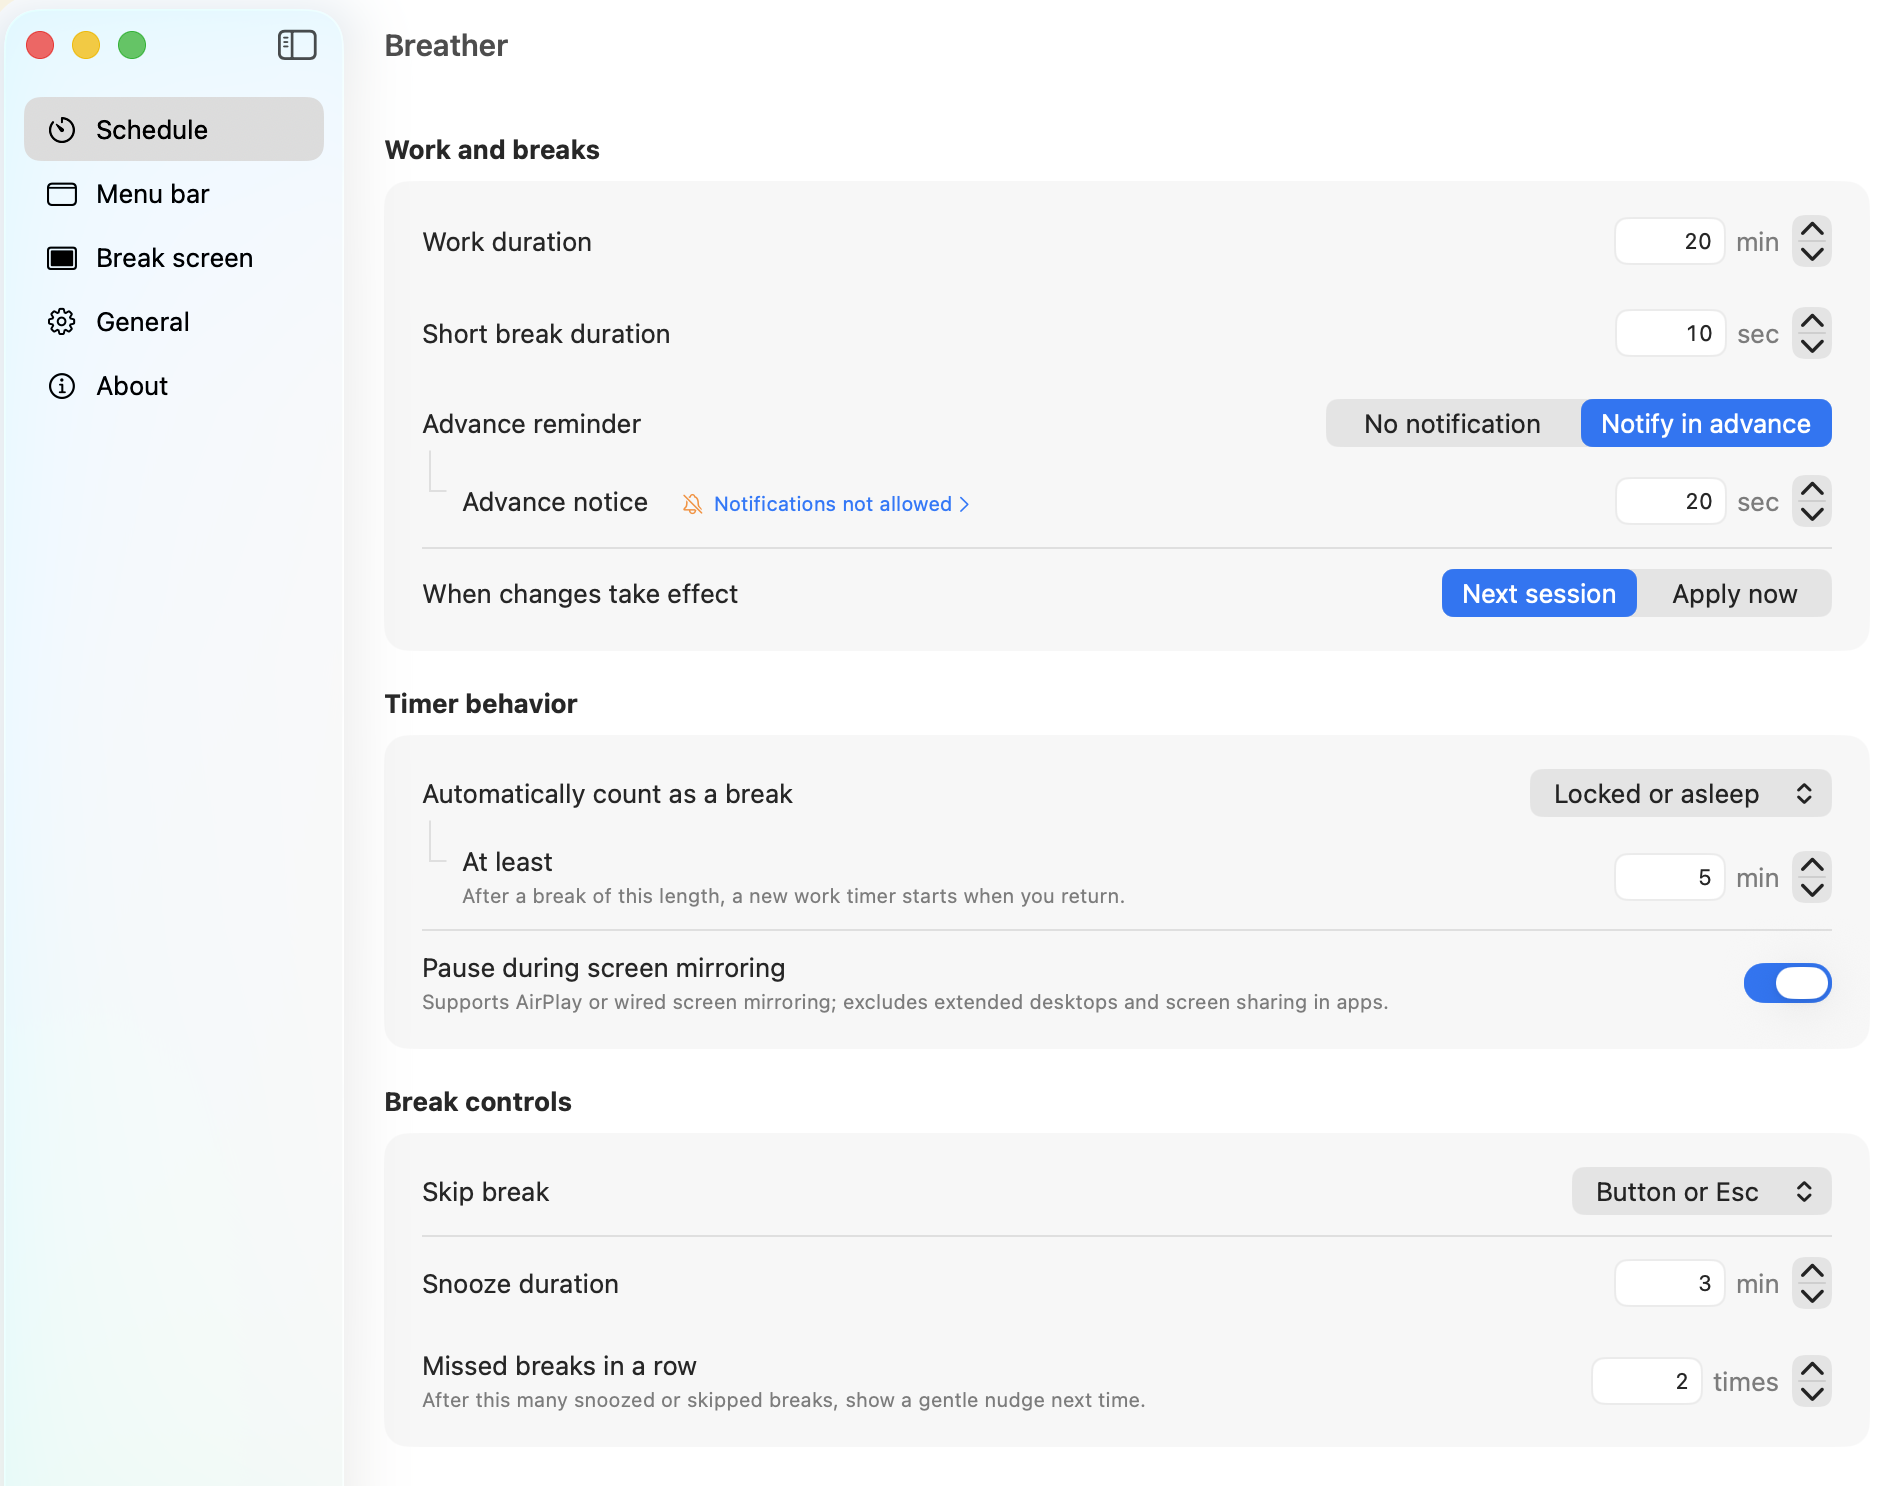
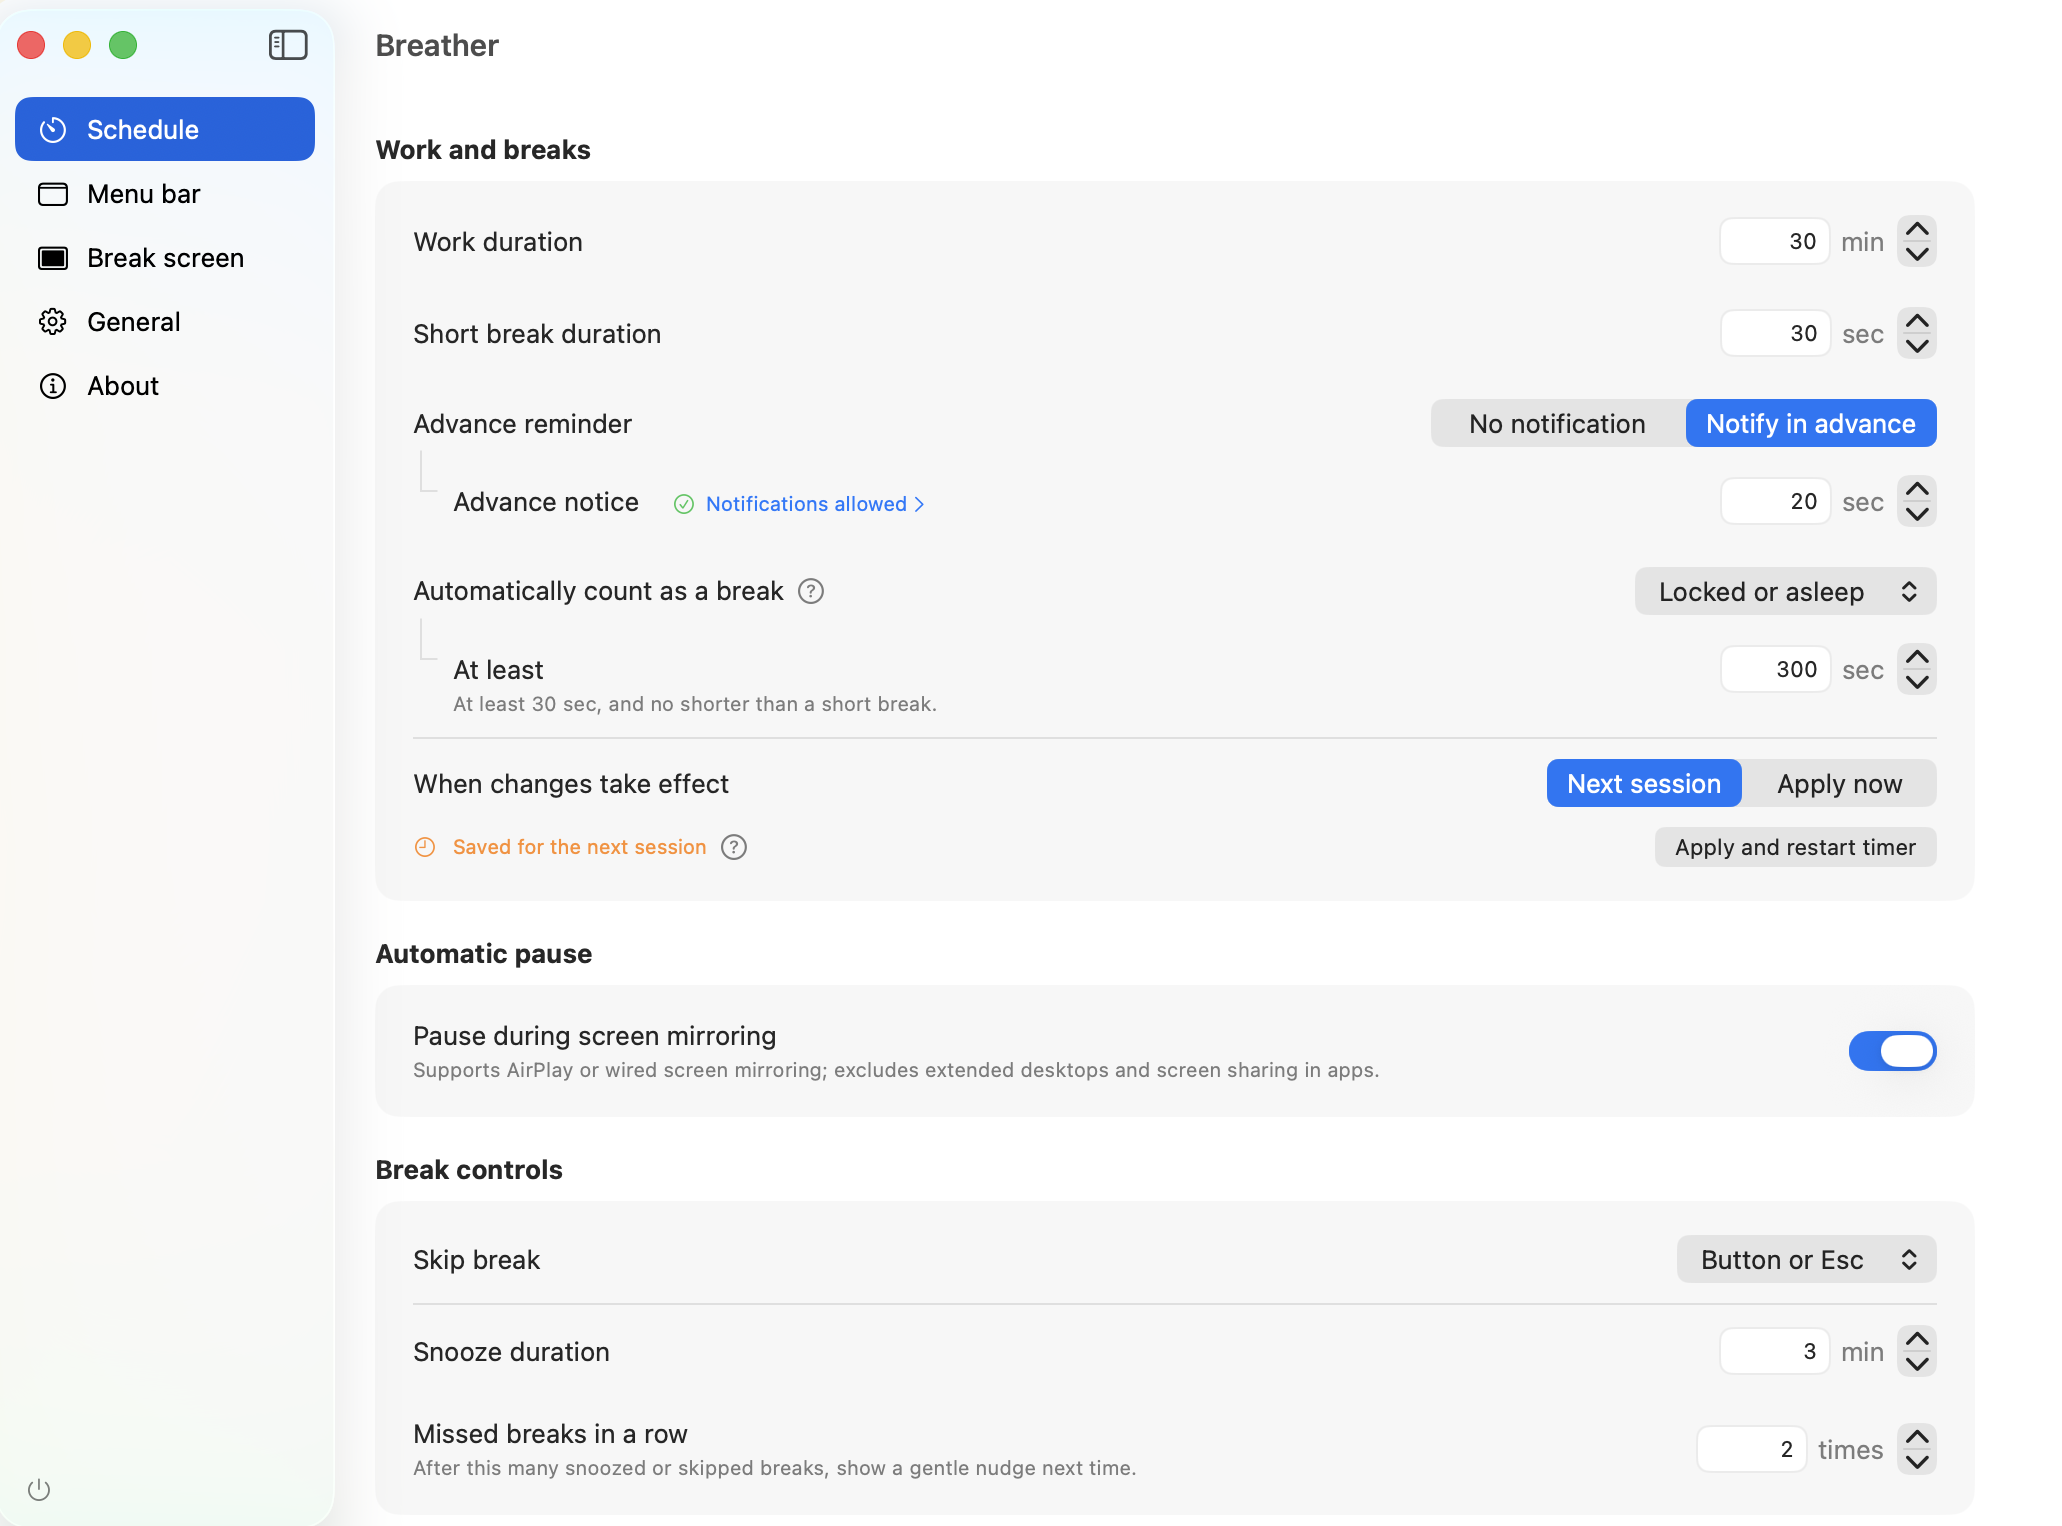
Publish Breather public snapshot
Source-Commit: 285f513cf5ee1d4b3eea3e92d183d5f497636dcb

diff --git a/README.md b/README.md
@@ -3,9 +3,9 @@
 </p>
 
 <p align="center">
-  <a href="README.md"><strong>English</strong></a> · <a href="README.zh-CN.md">简体中文</a>
+  <a href="README.md"><strong>English</strong></a> / <a href="README.zh-CN.md">简体中文</a>
   <br><br>
-  <a href="https://github.com/M3tar/Breather/releases/latest"><strong>Download Breather DMG</strong></a> · <a href="#install-with-homebrew">Install with Homebrew</a> · <a href="#release-history">Release history</a>
+  <a href="https://github.com/M3tar/Breather/releases/latest"><strong>Download Breather DMG</strong></a> / <a href="#install-with-homebrew">Install with Homebrew</a> / <a href="#release-history">Release history</a>
 </p>
 
 I made Breather to remind myself to pause. When I am making something, I can sit for hours. I know I should rest, yet it is easy to dismiss another reminder without thinking.
@@ -24,7 +24,7 @@ The menu bar popover keeps the current stage, remaining time, and next action to
   <a href="screenshots/timer-popover-paused-jade.en.png"><img src="screenshots/timer-popover-paused-jade.en.png" width="31%" alt="Breather manually paused with a resume action"></a>
 </p>
 
-<p align="center"><sub>Left: working · Center: mirroring pause · Right: manual pause<br>Click an image to view full size.</sub></p>
+<p align="center"><sub>Left: working / Center: mirroring pause / Right: manual pause<br>Click an image to view full size.</sub></p>
 
 ## Rest themes
 
@@ -47,7 +47,7 @@ I put little things I love into these scenes: a game dinosaur, curtains before b
   <a href="screenshots/rest-pixel-stroll-dark.en.png"><img src="screenshots/rest-pixel-stroll-dark.en.png" width="48%" alt="Pixel Stroll full-screen break in dark appearance"></a>
 </p>
 
-<p align="center"><sub>Left: light mode · Right: dark mode (click an image to view full size)</sub></p>
+<p align="center"><sub>Left: light mode / Right: dark mode (click an image to view full size)</sub></p>
 
 ### Curtains, moonlight, and a breeze
 
@@ -62,7 +62,7 @@ I put little things I love into these scenes: a game dinosaur, curtains before b
   <a href="screenshots/rest-leaves-countdown.en.png"><img src="screenshots/rest-leaves-countdown.en.png" width="48%" alt="Window Shadows with a light backdrop and a central countdown"></a>
 </p>
 
-<p align="center"><sub>Left: Intermission · Right: Window Shadows (click an image to view full size)</sub></p>
+<p align="center"><sub>Left: Intermission / Right: Window Shadows (click an image to view full size)</sub></p>
 
 ### Rain and snowfall
 
@@ -72,7 +72,7 @@ I put little things I love into these scenes: a game dinosaur, curtains before b
 
 [![Quiet Snowfall full-screen break with snow over a desert landscape](screenshots/rest-snow-countdown.en.png)](screenshots/rest-snow-countdown.en.png)
 
-<p align="center"><sub>Quiet Snowfall · Full-screen break (click to view full size)</sub></p>
+<p align="center"><sub>Quiet Snowfall / Full-screen break (click to view full size)</sub></p>
 
 ### Somewhere far away
 
@@ -80,20 +80,71 @@ I put little things I love into these scenes: a game dinosaur, curtains before b
 
 [![Cloudbound Train full-screen break with a central countdown](screenshots/rest-cloud-train-countdown.en.png)](screenshots/rest-cloud-train-countdown.en.png)
 
-<p align="center"><sub>Cloudbound Train · Full-screen break (click to view full size)</sub></p>
+<p align="center"><sub>Cloudbound Train / Full-screen break (click to view full size)</sub></p>
 
 ## Native settings, kept calm
 
 Settings opens to **Schedule**, keeping everyday work and break choices close at hand.
 
-- **Work and breaks:** Adjust durations, skip and snooze behavior. Apply timing changes now or in the next cycle.
+- **Work and breaks:** Configure work, short breaks, and automatic breaks, with one choice for when those changes take effect. Set skip and snooze behavior too.
 - **Advance reminder:** Enabled by default, 20 seconds before a break. You can turn it off and check notification status beside the advance time.
-- **Automatic breaks:** By default, locking your Mac or putting it to sleep for at least 5 minutes starts a fresh work timer when you return. Adjust the duration, include keyboard and mouse inactivity, or turn recognition off.
+- **Automatic breaks:** By default, locking your Mac or putting it to sleep for at least 5 minutes starts a fresh work timer when you return. Set the duration in seconds, include keyboard and mouse inactivity, or turn recognition off.
+- **Restore defaults:** Reset Schedule, Menu bar, or Break screen settings separately. Review what will change before confirming; other pages keep their settings.
 - **Language and appearance:** Use Simplified Chinese, Traditional Chinese, English, or your system language. Language changes take effect immediately.
 
 [![Schedule settings with advance reminders, automatic breaks, and break actions](screenshots/settings-schedule.en.png)](screenshots/settings-schedule.en.png)
 
-<p align="center"><sub>Custom configuration example (click to view full size)</sub></p>
+<p align="center"><sub>0.6.0 custom configuration with changes saved for the next session (click to view full size)</sub></p>
+
+### How short breaks and automatic breaks work together
+
+The short break duration controls the break-screen countdown. The automatic break duration sets how long your Mac must be locked, asleep, or inactive to count as a completed break. These durations can differ, but the automatic duration cannot be shorter.
+
+```mermaid
+flowchart TD
+    S[Set the short break duration] --> M{Automatically count as a break}
+    M -->|Off| OFF[No automatic break recognition]
+    M -->|Locked or asleep| L[Automatic duration must be<br/>at least as long as a short break]
+    M -->|Locked, asleep or no input| I[Automatic duration must be at least<br/>the short break duration and 60 seconds]
+    L --> T[Set the automatic duration in seconds]
+    I --> T
+    T --> E{When changes take effect}
+    OFF --> E
+    E -->|Next session| NEXT[Keep the current configuration<br/>Apply all changes next session]
+    E -->|Apply now| NOW[Apply all changes<br/>Recalculate the current countdown]
+```
+
+For example, the current session uses a **60-second** short break and a **120-second** automatic duration. Raising the short break to **180 seconds** also raises the saved automatic duration to **180 seconds**. With **Next session** selected, the current session keeps **60 / 120 seconds**; the next uses **180 / 180 seconds**. Changes to just the automatic duration or recognition mode follow the same rule.
+
+**Locking your Mac or putting it to sleep pauses the short break countdown.** On return, if the time spent locked or asleep reaches the automatic duration active for this session, the break counts as complete and a new work session starts. Otherwise, or if recognition is off, the remaining short break time resumes.
+
+<details>
+<summary><strong>See a one-minute lock example and how inactivity works</strong></summary>
+
+For example, lock your Mac with **20 seconds** left in a short break and return after **one minute (60 seconds)**. The break countdown stays paused throughout that minute, so it still has 20 seconds left. On unlock, the current session’s automatic break settings determine whether the break counts as complete:
+
+```mermaid
+flowchart TD
+    START[20 seconds left in the short break] --> LOCK[Mac locked for 60 seconds<br/>Break countdown paused, still 20 seconds left]
+    LOCK --> UNLOCK[Unlock and return]
+    UNLOCK --> MODE{Automatic break settings for this session}
+    MODE -->|Set to 60 seconds| MET[60 seconds locked meets the threshold]
+    MODE -->|Set to 120 seconds| UNMET[60 seconds locked is below the threshold]
+    MODE -->|Recognition off| OFF[Do not count the lock as a completed break]
+    MET --> FRESH[Count as a completed break<br/>Start a new work session]
+    UNMET --> RESUME[Resume the remaining 20-second break]
+    OFF --> RESUME
+```
+
+The **120-second** setting is how long your Mac must stay locked to count as a completed break. Only 60 seconds have passed, so the threshold has not been met and the paused 20-second break resumes.
+
+**When inactivity is included:** Work timing starts normally after a short break. If you continue without keyboard or mouse input and the total time without input reaches the set duration (including time during the short break), this counts as a completed break. Breather then waits for your next input before starting a new work session.
+
+When reading or watching a video, you may go a long time without using the keyboard or mouse, which can also trigger automatic break recognition. Choose **Locked or asleep** if you want to avoid this.
+
+These examples assume no other pause reason is active. A manual pause or screen mirroring can keep the timer paused.
+
+</details>
 
 ### Colors and menu bar icons
 
@@ -104,7 +155,7 @@ Sometimes a different color can change the mood. Choose a popover color and icon
   <a href="screenshots/settings-menu-bar-icon-picker.en.png"><img src="screenshots/settings-menu-bar-icon-picker.en.png" width="48%" alt="Menu bar icon picker with nine built-in icons"></a>
 </p>
 
-<p align="center"><sub>Left: popover colors · Right: menu bar icons (click an image to view full size)</sub></p>
+<p align="center"><sub>Left: popover colors / Right: menu bar icons (click an image to view full size)</sub></p>
 
 ## Download and install
 
@@ -123,13 +174,13 @@ brew update
 brew upgrade --cask M3tar/tap/breather
 ```
 
-Homebrew downloads the original Release DMG and checks its checksum. New versions become available after the [tap is updated](https://github.com/M3tar/homebrew-tap).
+Homebrew downloads the original Release DMG and checks its checksum. See the [tap instructions](https://github.com/M3tar/homebrew-tap#install) for upgrades, migration, and uninstallation.
 
 ### Download the DMG
 
 Download the latest DMG from [GitHub Releases](https://github.com/M3tar/Breather/releases/latest), open it, and drag **Breather** into **Applications**. Launch it from Applications.
 
-Breather checks for stable releases in the background. You can also check manually in **Settings → About**. For a manual installation, download the new DMG and replace the app.
+Breather checks for stable releases in the background. You can also check manually in **Settings → About**. Starting with 0.6.0, failed GitHub API requests fall back to a static update manifest. Both sources require access to GitHub. For a manual installation, download the new DMG and replace the app.
 
 ### First launch and existing installations
 
@@ -149,12 +200,15 @@ To switch from a manual installation to Homebrew, quit Breather, move the existi
 
 If something feels good—or gets in your way—I would love to hear about it through the email link in **Settings → About** or [GitHub Issues](https://github.com/M3tar/Breather/issues).
 
+For timer issues, export logs from **Settings → About → Feedback → Runtime logs**, then choose where to save them. Logging is on by default, stays on your Mac, and uses up to 20 MB, removing older records as needed. Logs are never uploaded automatically. You can turn logging off or clear stored logs; exported files are unaffected.
+
 ## Release history
 
 Each row covers the main changes. Follow a version link for full release notes and downloads.
 
 | Version | Main changes |
 | --- | --- |
+| [0.6.0](https://github.com/M3tar/Breather/releases/tag/v0.6.0) | Export and clear runtime logs; restore default settings for Schedule, Menu bar, or Break screen separately. Set automatic breaks in seconds and apply related settings together. Adds an update-check fallback, clearer theme previews, separate train animation speeds, and improved action feedback. |
 | [0.5.0](https://github.com/M3tar/Breather/releases/tag/v0.5.0) | Three interface languages, dedicated Menu bar settings, improved break recognition and notifications, lower background CPU use, and Homebrew installation guidance. |
 | [0.4.0](https://github.com/M3tar/Breather/releases/tag/v0.4.0) | Background update checks with quiet menu bar and Settings hints; motion labels on theme cards. |
 | [0.3.0](https://github.com/M3tar/Breather/releases/tag/v0.3.0) | Nine rest themes, improved multi-display and preview behavior, and an About page with feedback links. |
@@ -199,10 +253,10 @@ xcodebuild \
 Create a compressed release DMG:
 
 ```sh
-./scripts/build-dmg.sh 0.5.0
+./scripts/build-dmg.sh 0.6.0
 ```
 
-The artifact is written to `dist/Breather-0.5.0.dmg`. On a development Mac with stale release registrations, inspect and repair LaunchServices with:
+The artifact is written to `dist/Breather-0.6.0.dmg`. On a development Mac with stale release registrations, inspect and repair LaunchServices with:
 
 ```sh
 ./scripts/reset-local-release-registration.sh --dry-run
